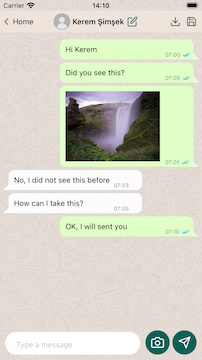
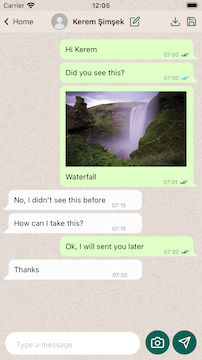
fix image position

diff --git a/src/views/whatsapp/WhatsappPreview.js b/src/views/whatsapp/WhatsappPreview.js
@@ -77,19 +77,23 @@ function WhatsappPreview({data, dispatch, isVisible, close}) {
                                                     display: isMyMessage ? "none" : "flex",
                                                     }}>
                                                 </View>
-                                                {
-                                                  (item.imageUrl?.length > 0) 
-                                                                ? <Image source={{uri: item.imageUrl}} style={{width:"75%", paddingVertical:10, paddingLeft:10, height: 150}}></Image>
-                                                                : <Text style={{...styles.messageText, left: isMyMessage ? 10 : 0}}>{item.content}</Text>
-                                                }
-                                                <View style={styles.timeAndReadContainer}>
-                                                    <Text style={styles.timeText}>{item.time}</Text>
-                                                    <View style={styles.checkContainer}>
-                                                        {isMyMessage && <CheckIcon flex={1} width={12} height={12} strokeWidth={showReachIcon ? 3 : 2} color={messageStatusColor} />}
-                                                        {showReachIcon && <CheckIcon flex={1} left={-8} width={12} strokeWidth={3} height={12} color={messageStatusColor} />}
+                                                <View style={{flexDirection:'column'}}>
+                                                    {
+                                                    (item.imageUrl?.length > 0) &&
+                                                        <Image source={{uri: item.imageUrl}} style={{width:"98%", paddingVertical:10, paddingLeft:10, height: 150}}></Image>
+                                                    }
+                                                    <View style={{flexDirection:'row'}}>
+                                                        <Text style={{...styles.messageText, left: isMyMessage ? 10 : 0}}>{item.content}</Text>
+                                                        <View style={styles.timeAndReadContainer}>
+                                                            <Text style={styles.timeText}>{item.time}</Text>
+                                                            <View style={styles.checkContainer}>
+                                                                {isMyMessage && <CheckIcon flex={1} width={12} height={12} strokeWidth={showReachIcon ? 3 : 2} color={messageStatusColor} />}
+                                                                {showReachIcon && <CheckIcon flex={1} left={-8} width={12} strokeWidth={3} height={12} color={messageStatusColor} />}
+                                                            </View>
+                                                         </View>
                                                     </View>
-                                                    <View style={{...styles.rightMsgArrow, display: isMyMessage ? "flex" : "none"}}></View>
                                                 </View>
+                                                <View style={{...styles.rightMsgArrow, display: isMyMessage ? "flex" : "none"}}></View>
                                             </View>
                                         )
                                     }
@@ -122,8 +126,7 @@ const styles = StyleSheet.create({
     centerContainer: {
         flex:1,
         width:"100%",
-        padding: 20,
-        paddingBottom:10,
+        padding: 10,
         borderRadius: 10,
         alignItems: 'center',
         shadowColor: '#000',
@@ -220,7 +223,7 @@ const styles = StyleSheet.create({
       },
       messageText: {
         fontSize: 14,
-        width: "75%",
+        width: "76%",
         paddingVertical:10
       },
       timeAndReadContainer: {
@@ -242,7 +245,7 @@ const styles = StyleSheet.create({
         borderBottomColor: "#e7ffdb",
         borderBottomWidth: 12,
         alignSelf: "flex-end",
-        left: -2,
+        left: 2,
         bottom: 0,
       },
       checkContainer:{

diff --git a/src/components/whatsapp/WhatsappMessageBubble.js b/src/components/whatsapp/WhatsappMessageBubble.js
@@ -25,34 +25,36 @@ function WhatsappMessageBubble({data}) {
                 alignSelf: isMyMessage ? "flex-end": "flex-start",
                 backgroundColor: isMyMessage ? "#dfffc7" : "#fcfcfc",
                 borderBottomLeftRadius: isMyMessage ? 10 : 0,
-                borderBottomRightRadius: isMyMessage ? 0 : 10,
-            }}>
-                <View style={{
-                    ...styles.leftMessageArrow,
-                    display: isMyMessage ? "none" : "flex",
-                    }}>
-                </View>
+                borderBottomRightRadius: isMyMessage ? 0 : 10}}>
+            <View style={{
+                ...styles.leftMessageArrow,
+                display: isMyMessage ? "none" : "flex",
+                }}>
+            </View>
+            <View style={{flexDirection:'column'}}>
                 {
-                  (data.imageUrl?.length > 0) 
-                                ? <Image source={{uri: data.imageUrl}} style={{width:"75%", paddingVertical:10, paddingLeft:10, height: 150}}></Image>
-                                : <Text style={{...styles.messageText, left: isMyMessage ? 10 : 0}}>{data.content}</Text>
+                  (data.imageUrl?.length > 0) && 
+                  <Image source={{uri: data.imageUrl}} style={{width:"98%", paddingTop:10, paddingLeft:10, height: 150}}></Image>
                 }
-                <View style={{
-                    ...styles.timeAndReadContainer,
-                    left: isMyMessage ? 10 : 0,
-                    }}>
-                <Text style={styles.timeText}>{data.time}</Text>
-                <View style={styles.checkContainer}>
-                    {isMyMessage && <CheckIcon flex={1} width={12} height={12} strokeWidth={showReachIcon ? 3 : 2} color={messageStatusColor} />}
-                    {showReachIcon && <CheckIcon flex={1} left={-8} width={12} strokeWidth={3} height={12} color={messageStatusColor} />}
-                </View>
-                <View style={{
-                        ...styles.rightMsgArrow,
-                        display: isMyMessage ? "flex" : "none",
-                    }}>
+                <View style={{flexDirection:'row'}}>
+                  <Text style={{...styles.messageText, left: isMyMessage ? 10 : 0}}>{data.content}</Text>
+                  <View style={{
+                      ...styles.timeAndReadContainer,
+                      left: isMyMessage ? 10 : 0 }}>
+                      <Text style={styles.timeText}>{data.time}</Text>
+                      <View style={styles.checkContainer}>
+                          {isMyMessage && <CheckIcon flex={1} width={12} height={12} strokeWidth={showReachIcon ? 3 : 2} color={messageStatusColor} />}
+                          {showReachIcon && <CheckIcon flex={1} left={-8} width={12} strokeWidth={3} height={12} color={messageStatusColor} />}
+                      </View>
+                  </View>
                 </View>
             </View>
-          </View>
+            <View style={{
+                    ...styles.rightMsgArrow,
+                    display: isMyMessage ? "flex" : "none",
+                }}>
+            </View>
+        </View>
     );
 }
 
@@ -79,11 +81,11 @@ const styles = StyleSheet.create({
     },
     messageText: {
       fontSize: 14,
-      width: "75%",
+      width: "76%",
       paddingVertical:10
     },
     timeAndReadContainer: {
-      flexDirection: "row",
+      flexDirection: "row"
     },
     timeText: {
       fontSize: 10,
@@ -101,7 +103,7 @@ const styles = StyleSheet.create({
       borderBottomColor: "#e7ffdb",
       borderBottomWidth: 12,
       alignSelf: "flex-end",
-      left: -2,
+      left:3,
       bottom: 0,
     },
     checkContainer:{

diff --git a/src/views/whatsapp/WhatsappTypes.js b/src/views/whatsapp/WhatsappTypes.js
@@ -34,7 +34,7 @@ export class WhatsappContent {
       this.profileImage = profileImage;
     }
     static Empty(){
-      return new WhatsappUser(generateUUID(),'Partner Fullname', '');
+      return new WhatsappUser(generateUUID(),'Partner Name', '');
     }
   }
 

diff --git a/src/components/whatsapp/WhatsappHeader.js b/src/components/whatsapp/WhatsappHeader.js
@@ -130,7 +130,7 @@ const styles = StyleSheet.create({
         marginLeft: 10,
         fontWeight:'600',
         fontSize:14,
-        width: 120
+        width: 100
     }
 });
 
